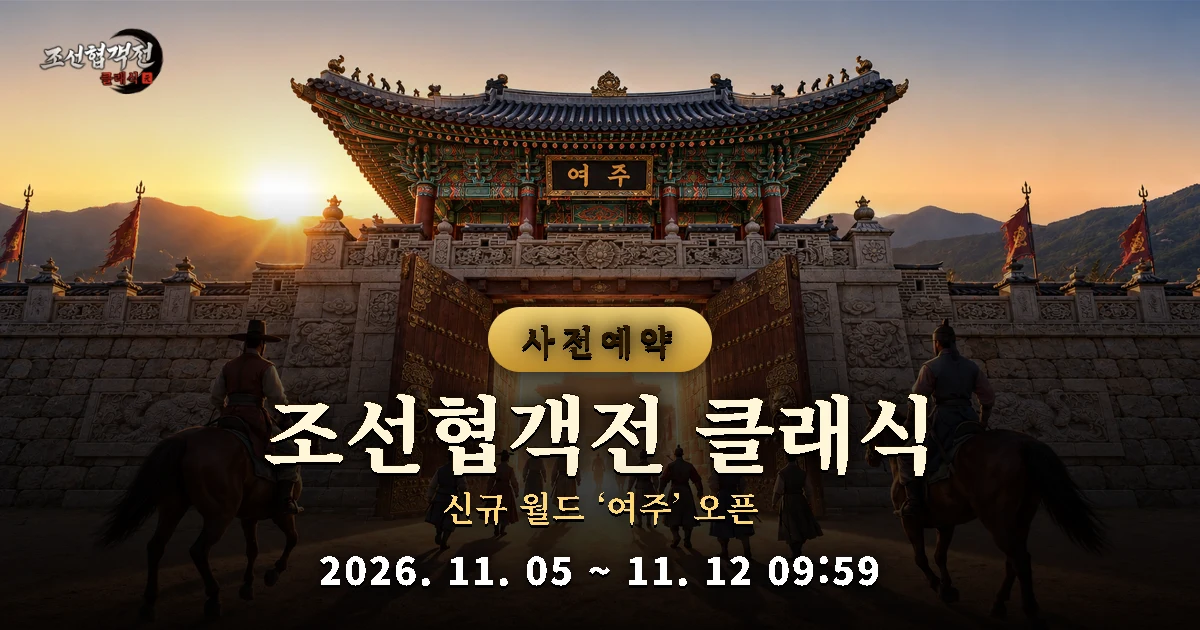
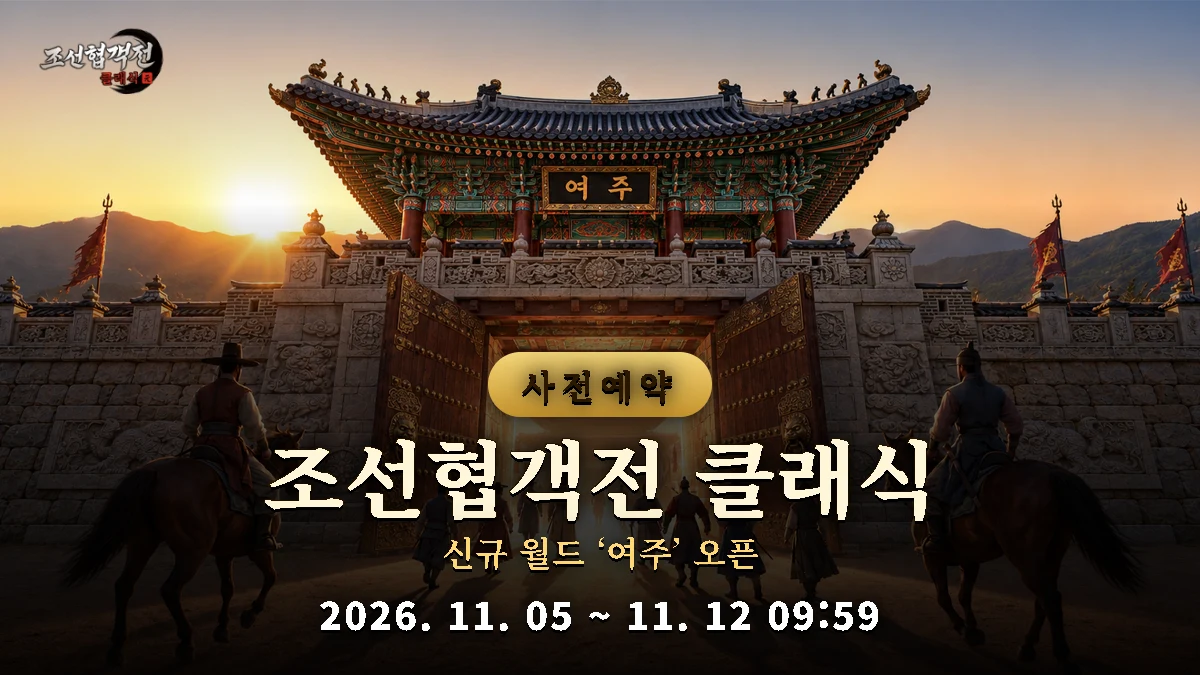
배너: 솔·조선협객전·천상비M2 이미지 16:9로 맞춰 꽉 차게

Changed region(s): [[0.0, 0.0905, 1.0, 0.9349], [0.0308, 0.0302, 0.1542, 0.1508], [0.8633, 0.6937, 0.8942, 0.7238]]

diff --git a/index.html b/index.html
@@ -298,10 +298,10 @@
             <div class="hero-banner-slides">
               <a href="https://open.kakao.com/o/gdQUrDrh" target="_blank" rel="noopener" class="hero-banner-slide is-active"><img src="banner/ad-inquiry.jpg" alt="원격임대 광고·제휴 문의 - 나노원격임대 카카오톡" width="1024" height="572"></a>
               <a href="https://temppal.nexon.com/" target="_blank" rel="noopener" class="hero-banner-slide"><img src="banner/overgeared.jpg" alt="템빨: 오버기어드 원격임대 · 원격PC 임대 - 나노원격임대" width="650" height="365"></a>
-              <a href="https://chosunclassic.co.kr/#contents2" target="_blank" rel="noopener" class="hero-banner-slide"><img src="banner/joseon-hyeopgaekjeon-classic-prereg.webp" alt="조선협객전 클래식 신규 월드 여주 사전예약 11월 12일까지 원격임대 · 원격PC 임대 - 나노원격임대" width="1200" height="630"></a>
+              <a href="https://chosunclassic.co.kr/#contents2" target="_blank" rel="noopener" class="hero-banner-slide"><img src="banner/joseon-hyeopgaekjeon-classic-prereg.webp" alt="조선협객전 클래식 신규 월드 여주 사전예약 11월 12일까지 원격임대 · 원격PC 임대 - 나노원격임대" width="1200" height="675"></a>
               <a href="https://raven2.netmarble.com/ko" target="_blank" rel="noopener" class="hero-banner-slide"><img src="banner/raven2-mach-prereg.webp" alt="레이븐2 마하 서버 사전등록 11월 18일 정식 오픈 원격임대 · 원격PC 임대 - 나노원격임대" width="1200" height="582"></a>
-              <a href="https://sol.netmarble.com/infinity" target="_blank" rel="noopener" class="hero-banner-slide"><img src="banner/sol-enchant-infinity-prereg.webp" alt="솔: 인챈트 신규 서버 인피니티 사전예약 12월 2일 오픈 원격임대 · 원격PC 임대 - 나노원격임대" width="1200" height="630"></a>
-              <a href="https://cheonsangbim2.sesisoft.com/" target="_blank" rel="noopener" class="hero-banner-slide"><img src="banner/cheonsangbi-m2-prereg.webp" alt="천상비M2 사전예약 11월 25일까지 원격임대 · 원격PC 임대 - 나노원격임대" width="1200" height="630"></a>
+              <a href="https://sol.netmarble.com/infinity" target="_blank" rel="noopener" class="hero-banner-slide"><img src="banner/sol-enchant-infinity-prereg.webp" alt="솔: 인챈트 신규 서버 인피니티 사전예약 12월 2일 오픈 원격임대 · 원격PC 임대 - 나노원격임대" width="1200" height="675"></a>
+              <a href="https://cheonsangbim2.sesisoft.com/" target="_blank" rel="noopener" class="hero-banner-slide"><img src="banner/cheonsangbi-m2-prereg.webp" alt="천상비M2 사전예약 11월 25일까지 원격임대 · 원격PC 임대 - 나노원격임대" width="1200" height="675"></a>
             </div>
             <div class="hero-banner-dots" role="tablist" aria-label="배너 선택">
               <button class="hero-banner-dot is-active" role="tab" aria-label="배너 1로 이동"></button>
